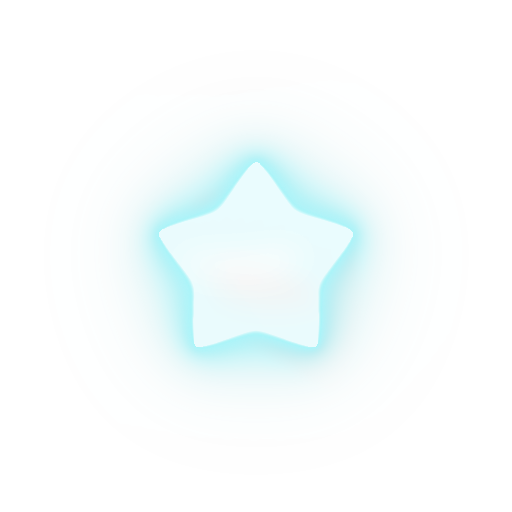
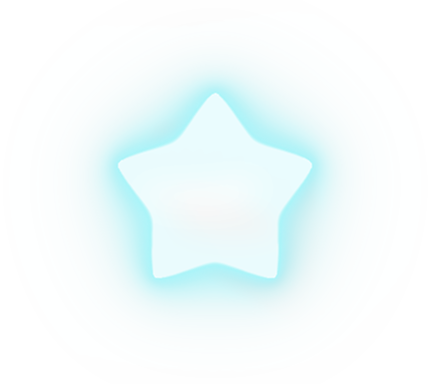
Cambios oki p4: Se elimina imagen repetida

Changed region(s): [[0.2126, 0.1875, 0.7897, 0.7812]]

diff --git a/html/game-oki.html b/html/game-oki.html
@@ -82,7 +82,7 @@
         el portal para volver a su dimensión y le otorga un escudo temporal
         que lo protege del daño.
       </p>
-      <img src="../img/oki-imgs/star1.png" alt="Estrellas recolectables del juego Oki" class="img-fluid rounded">
+      <img src="../img/oki-imgs/star.png" alt="Estrellas recolectables del juego Oki" class="img-fluid rounded">
     </div>
 
     <!-- Plataformas -->
